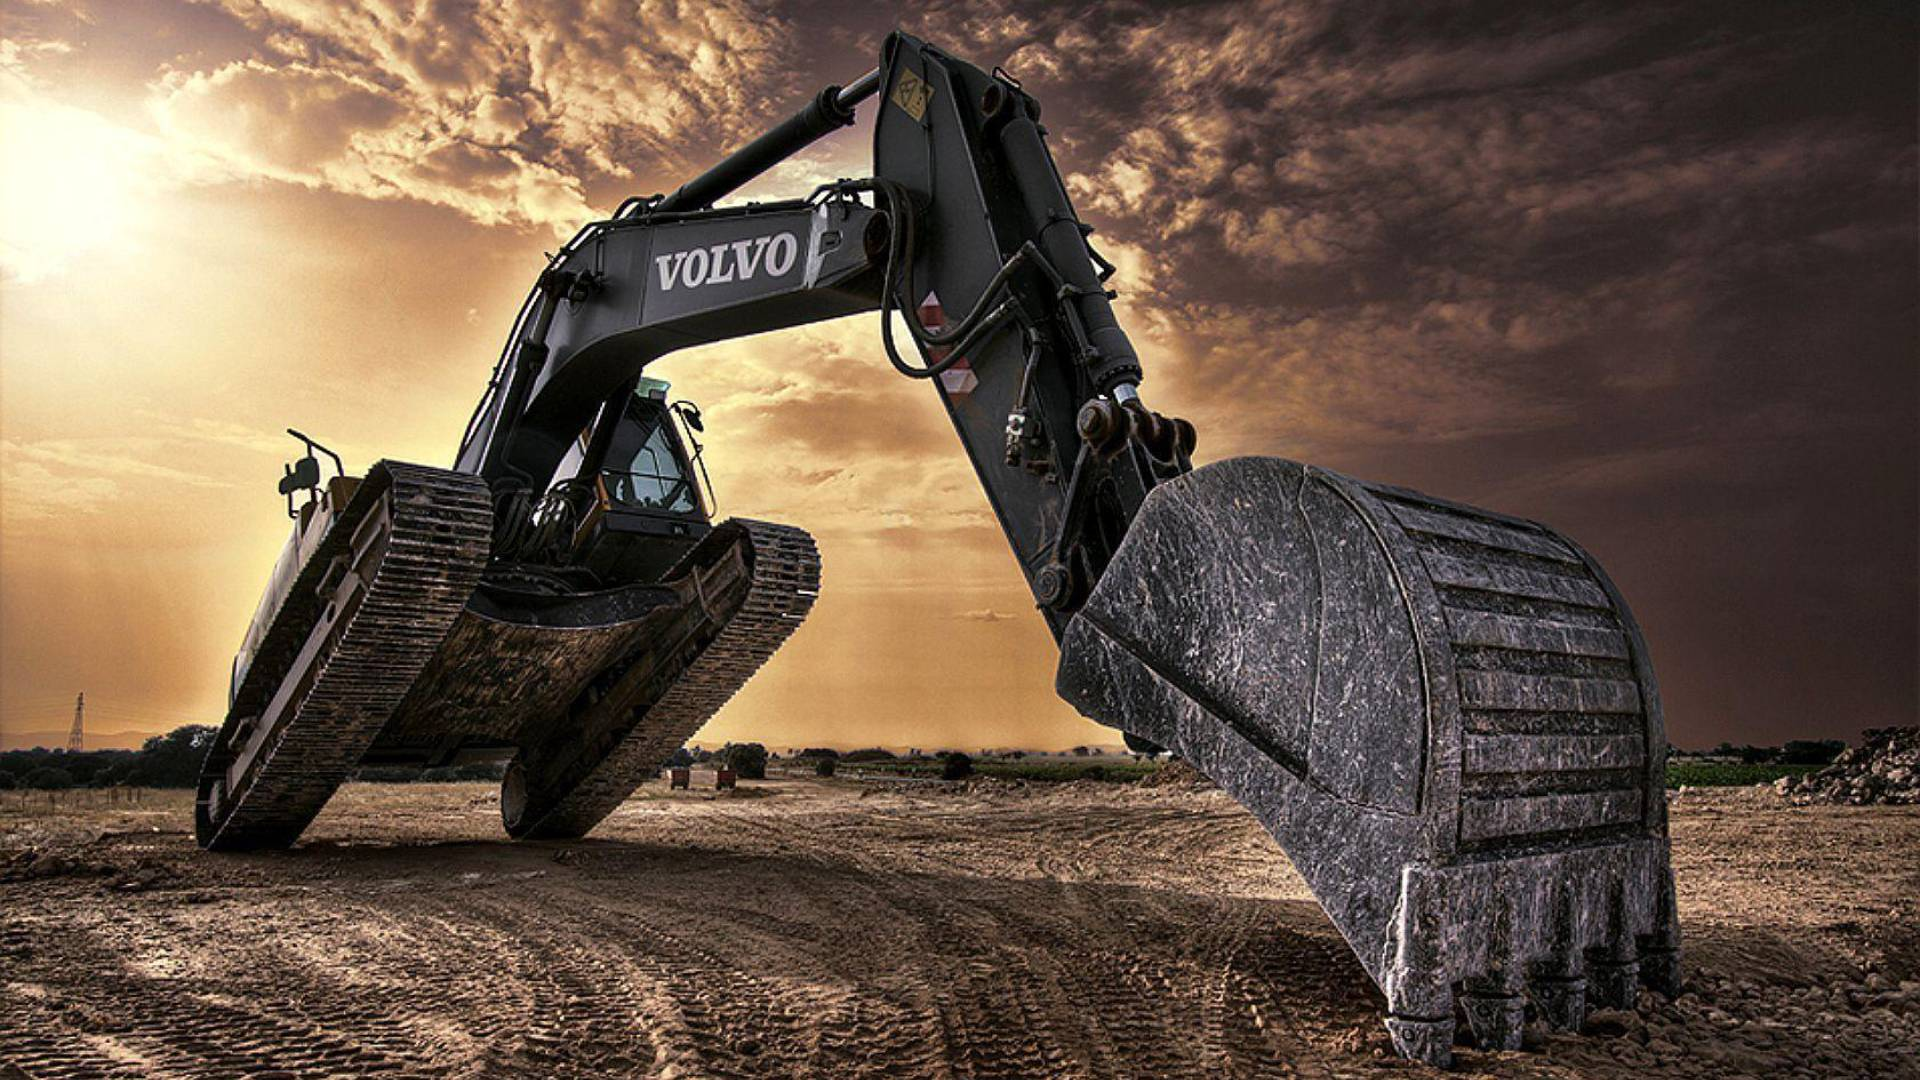
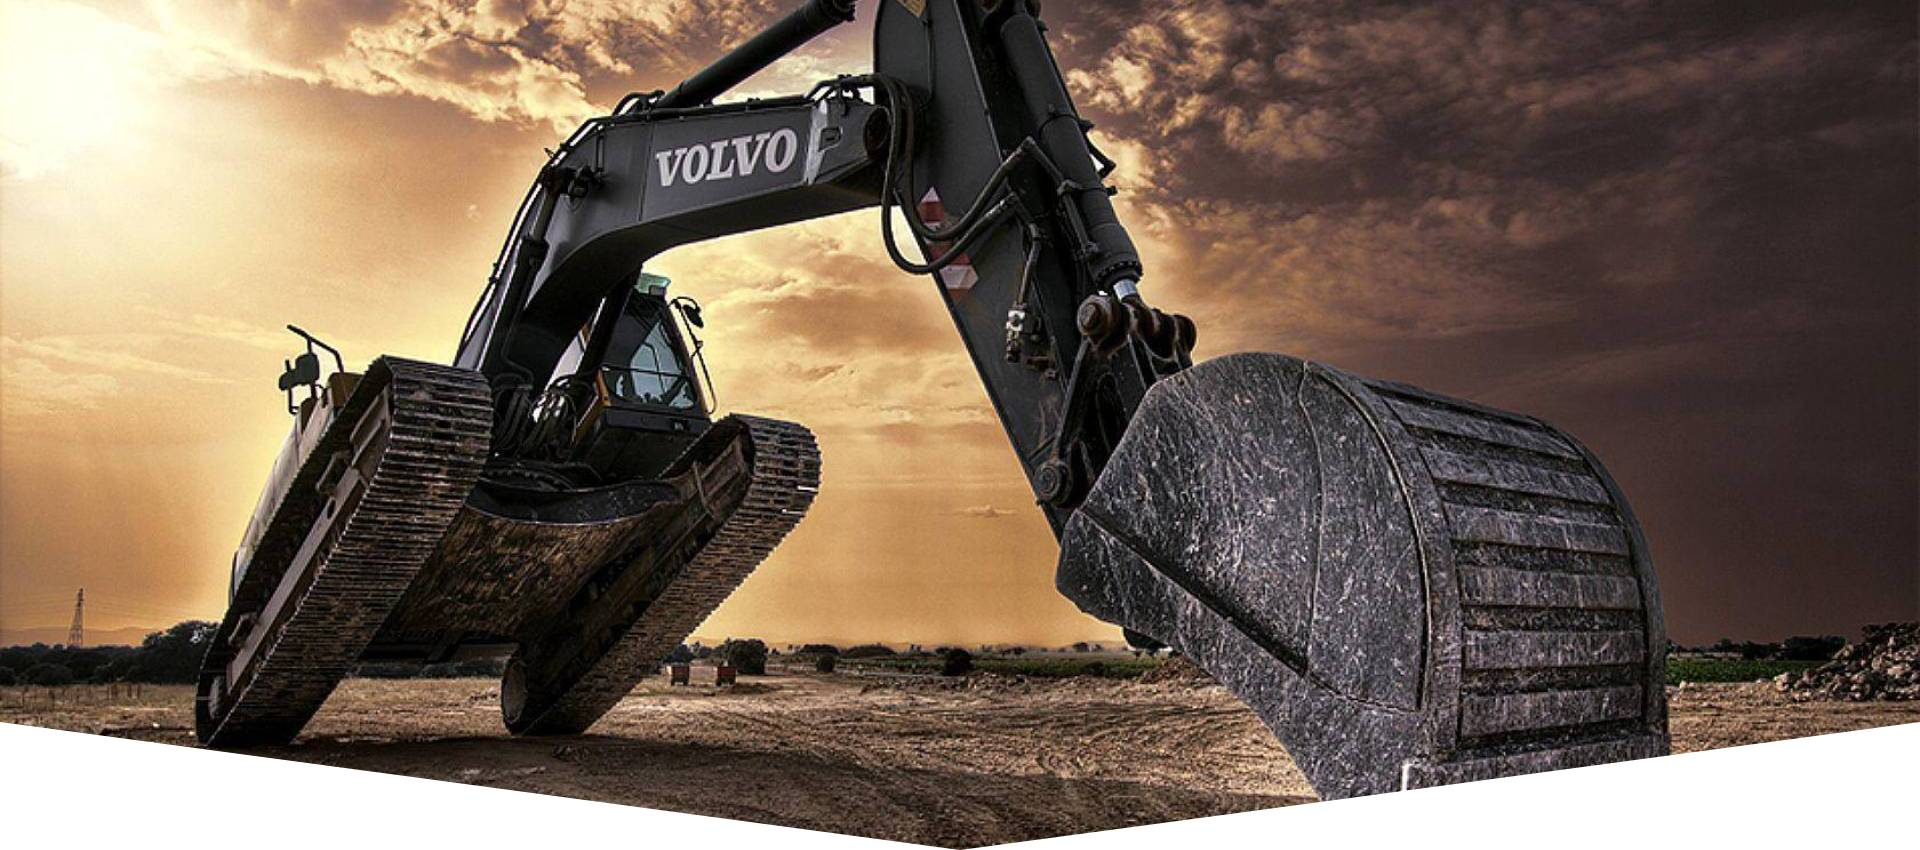
fix some

diff --git a/assets/css/style.css b/assets/css/style.css
@@ -512,8 +512,7 @@ ol {
 -----------------------*/
 
 .hero {
-	/* height: 850px; */
-	height: 920px;
+	height: 550px;
 	display: -webkit-box;
 	display: -ms-flexbox;
 	display: flex;
@@ -524,14 +523,19 @@ ol {
 
 .hero__text h5 {
 	color: #ffffff;
-	font-weight: 700;
+	font-weight: 400;
 	text-transform: uppercase;
 	letter-spacing: 2px;
 	margin-bottom: 20px;
 }
 
+.hero__text h5 p {
+	font-size: 14px;
+	line-height: 1.7;
+}
+
 .hero__text h2 {
-	font-size: 42px;
+	font-size: 35px;
 	font-weight: 800;
 	text-transform: uppercase;
 	font-style: italic;
@@ -3123,4 +3127,59 @@ ol {
 	top: 0;
 	content: "/";
 	color: #666666;
+}
+
+
+.hero-slider {
+	position: absolute;
+	left: 0;
+	top: 0;
+	width: 100%;
+	height: 100%;
+}
+
+.hero-slider.owl-carousel .owl-dots {
+	position: relative;
+	left: 0;
+	bottom: 80px;
+	max-width: 1140px;
+	margin: 0 auto;
+	text-align: center;
+}
+
+.hero-slider.owl-carousel .owl-dots button {
+	height: 10px;
+	width: 10px;
+	border-radius: 50%;
+	background: whitesmoke;
+	margin-right: 10px;
+}
+
+.hero-slider.owl-carousel .owl-dots button.active {
+	background: #c20000;
+}
+
+.hero-slider .owl-stage-outer,
+.hero-slider .owl-stage,
+.hero-slider .owl-item,
+.hero-slider .hs-item {
+	height: 100%;
+}
+
+.hero-slider .set-bg {
+	background-position: bottom center;
+}
+
+/*---------------------
+  Hero
+-----------------------*/
+
+.hero-section {
+	position: relative;
+	padding: 0 0 100px;
+}
+
+.hero-section .container {
+	position: relative;
+	z-index: 9;
 }

diff --git a/assets/js/main.js b/assets/js/main.js
@@ -146,7 +146,9 @@
         animateIn: 'fadeIn',
         smartSpeed: 1200,
         autoHeight: false,
-        autoplay: false
+        autoplay: true,
+        autoplayTimeout: 5000,
+        autoplayHoverPause: true
     });
 
     /*------------------

diff --git a/index.php b/index.php
@@ -102,7 +102,7 @@
     ?>
 
     <!-- Hero Section Begin -->
-    <section class="hero set-bg" data-setbg="assets/img/2.jpg">
+    <section class="hero hero-section" data-setbg="assets/img/2.jpg">
         <div class="container">
             <div class="row">
                 <div class="col-lg-12 text-center">
@@ -120,6 +120,11 @@
                     </div>
                 </div>
             </div>
+        </div>
+        <div class="hero-slider owl-carousel">
+            <div class="hs-item set-bg" data-setbg="assets/img/1.jpg"></div>
+            <div class="hs-item set-bg" data-setbg="assets/img/2.jpg"></div>
+            <div class="hs-item set-bg" data-setbg="assets/img/3.jpg"></div>
         </div>
     </section>
     <!-- Hero Section End -->
@@ -240,180 +245,95 @@
     <?php
     if ($_REQUEST['p']=="search") {?>
       <!-- Breadcrumb Section Begin -->
-      <section class="breadcrumb-section set-bg spad" data-setbg="assets/img/top-image-old.jpg">
-        <div style="width:100%;height:100%;background-color: rgba(0, 0, 0, 0.5);padding:100px 0;">
-          <div class="container">
+      <div class="breadcrumb-option">
+        <div class="container">
             <div class="row">
-              <div class="col-lg-12 text-center">
-                <div class="breadcrumb-text">
-                  <h3>Search For: <span><?php echo $_POST['search'] ? $_POST['search'] : '';?></span></h3>
-                  <div class="bt-option">
-                    <a href="#">Home</a>
-                    <a href="#">Search Result</a>
-                    <span><?php echo $_POST['search'] ? $_POST['search'] : '';?></span>
-                  </div>
+                <div class="col-lg-12">
+                    <div class="breadcrumb__links">
+                        <a href="./index.html"><i class="fa fa-home"></i> Home</a>
+                        <span>Search: <?php echo $_POST['search']; ?></span>
+                        <a href="products.php?cat=all&l=<?php echo $_REQUEST['l'] ?>&page=1" style="float:right;">View all MACHINES</a>
+                    </div>
                 </div>
-              </div>
             </div>
-          </div>
         </div>
-      </section>
+    </div>
       <!-- Breadcrumb Section End -->
 
       <!-- Categories Grid Section Begin -->
-      <section class="categories-list-section spad">
-          <div class="container">
-              <div class="row">
-                <div class="col-lg-8 p-0">
-                  <?php
-                    if($_POST['search']){
-                        $search = $_POST['search'];
-                        $str_query = " SELECT * FROM $tab_produse where nume_en like '%$search%' || stock like '%$search%' || make like '%$search%' || model like '%$search%' ";
-                        $result = mysql_query($str_query);
-                        if(mysql_num_rows($result) == 0){
-                            $strDisplay = "No Result";
-                        } else {
-                            $strDisplay = '';
-                            while($row = mysql_fetch_array($result)) {
-                                $query2 = mysql_query ( " SELECT * FROM $tab_fisiere where tip = '".$row['id']."' ");
-                                $row2 = mysql_fetch_array($query2);
-                                $strDisplay .= "
-                                  <div class='cl-item'>
-                                    <div class='cl-pic'>
-                                      <img src='upload/".$row2['numefisier']."' alt='TAYMIN LTD'>
-                                    </div>
-                                    <div class='cl-text'>
-                                        <div class='label'><span>".$row['model']."</span></div>
-                                        <h5><a href='product.php?cat=".$row['parinte']."&id=".$row['id']."&l=".$_REQUEST['l']."'>".$row['nume_en']."</a></h5>
-                                        <ul>
-                                          <li>by <span>".$row['make']."</span></li>
-                                          <li><i class='fa fa-money'></i>".$row['price']." &pound;</li>
-                                          <li><i class='fa fa-map-marker'></i>".$row['location']."</li>
-                                        </ul>
-                                    </div>
-                                  </div>
-                                ";
-                            }
-                        }
-                      }
-                      echo $strDisplay;
-                    ?>                  
-                  <div class="pagination-item" style="float:right;">
-                    <!-- <a href="#"><span>1</span></a>
-                    <a href="#"><span>2</span></a>
-                    <a href="#"><span>3</span></a> -->
-                    <a href="products.php?cat=all&l=en&page=1"><span>View All Machines</span></a>
-                  </div>  
-                </div> 
-                <div class="col-lg-4 col-md-7 p-0">
-                    <div class="sidebar-option">
-                        <div class="social-media">
-                            <div class="section-title">
-                                <h5>Social media</h5>
-                            </div>
-                            <ul>
-                                <li>
-                                    <div class="sm-icon"><i class="fa fa-facebook"></i></div>
-                                    <span>Facebook</span>
-                                    <div class="follow">1,2k Follow</div>
-                                </li>
-                                <li>
-                                    <div class="sm-icon"><i class="fa fa-twitter"></i></div>
-                                    <span>Twitter</span>
-                                    <div class="follow">1,2k Follow</div>
-                                </li>
-                                <li>
-                                    <div class="sm-icon"><i class="fa fa-youtube-play"></i></div>
-                                    <span>Youtube</span>
-                                    <div class="follow">2,3k Subs</div>
-                                </li>
-                                <li>
-                                    <div class="sm-icon"><i class="fa fa-instagram"></i></div>
-                                    <span>Instagram</span>
-                                    <div class="follow">2,6k Follow</div>
-                                </li>
-                            </ul>
-                        </div>
-                        <div class="best-of-post">
-                            <div class="section-title">
-                                <h5>Best of</h5>
-                            </div>
-                            <div class="bp-item">
-                                <div class="bp-loader">
-                                    <div class="loader-circle-wrap">
-                                        <div class="loader-circle">
-                                            <span class="circle-progress-1" data-cpid="id-1" data-cpvalue="95"
-                                                data-cpcolor="#c20000"></span>
-                                            <div class="review-point">9.5</div>
-                                        </div>
-                                    </div>
-                                </div>
-                                <div class="bp-text">
-                                    <h6><a href="#">This gaming laptop with a GTX 1660...</a></h6>
-                                    <ul>
-                                        <li><i class="fa fa-clock-o"></i> Aug 01, 2019</li>
-                                        <li><i class="fa fa-comment-o"></i> 20</li>
-                                    </ul>
-                                </div>
-                            </div>
-                            <div class="bp-item">
-                                <div class="bp-loader">
-                                    <div class="loader-circle-wrap">
-                                        <div class="loader-circle">
-                                            <span class="circle-progress-1" data-cpid="id-2" data-cpvalue="85"
-                                                data-cpcolor="#c20000"></span>
-                                            <div class="review-point">8.5</div>
-                                        </div>
-                                    </div>
-                                </div>
-                                <div class="bp-text">
-                                    <h6><a href="#">This gaming laptop with a GTX 1660...</a></h6>
-                                    <ul>
-                                        <li><i class="fa fa-clock-o"></i> Aug 01, 2019</li>
-                                        <li><i class="fa fa-comment-o"></i> 20</li>
-                                    </ul>
-                                </div>
-                            </div>
-                            <div class="bp-item">
-                                <div class="bp-loader">
-                                    <div class="loader-circle-wrap">
-                                        <div class="loader-circle">
-                                            <span class="circle-progress-1" data-cpid="id-3" data-cpvalue="80"
-                                                data-cpcolor="#c20000"></span>
-                                            <div class="review-point">8.0</div>
-                                        </div>
-                                    </div>
-                                </div>
-                                <div class="bp-text">
-                                    <h6><a href="#">This gaming laptop with a GTX 1660...</a></h6>
-                                    <ul>
-                                        <li><i class="fa fa-clock-o"></i> Aug 01, 2019</li>
-                                        <li><i class="fa fa-comment-o"></i> 20</li>
-                                    </ul>
-                                </div>
-                            </div>
-                            <div class="bp-item">
-                                <div class="bp-loader">
-                                    <div class="loader-circle-wrap">
-                                        <div class="loader-circle">
-                                            <span class="circle-progress-1" data-cpid="id-4" data-cpvalue="75"
-                                                data-cpcolor="#c20000"></span>
-                                            <div class="review-point">7.5</div>
-                                        </div>
-                                    </div>
-                                </div>
-                                <div class="bp-text">
-                                    <h6><a href="#">This gaming laptop with a GTX 1660...</a></h6>
-                                    <ul>
-                                        <li><i class="fa fa-clock-o"></i> Aug 01, 2019</li>
-                                        <li><i class="fa fa-comment-o"></i> 20</li>
-                                    </ul>
-                                </div>
-                            </div>
-                        </div>
+      <section class="courses spad">
+        <div class="container">
+            <div class="row">
+                <div class="col-lg-7 col-md-7 col-sm-7">
+                    <div class="section-title">
+                        <span>Search</span>
+                        <h2>Results</h2>
                     </div>
                 </div>
-              </div>
+                <div class="col-lg-5 col-md-5 col-sm-5">
+                    <div class="courses__all">
+                        <a href="products.php?cat=all&l=en&page=1" class="primary-btn second-bg">View all</a>
+                    </div>
+                </div>
+            </div>
+              <div class="row">
+              <?php
+                if($_POST['search']){
+                    $search = $_POST['search'];
+                    $str_query = " SELECT * FROM $tab_produse where nume_en like '%$search%' || stock like '%$search%' || make like '%$search%' || model like '%$search%' ";
+                    $result = mysql_query($str_query);
+                    if(mysql_num_rows($result) == 0){
+                        $strDisplay = "No Result";
+                    } else {
+                        $strDisplay = '';
+                        while($row = mysql_fetch_array($result)) {
+                            $query2 = mysql_query ( " SELECT * FROM $tab_fisiere where tip = '".$row['id']."' ");
+                            $row2 = mysql_fetch_array($query2);
+                            $strDisplay .= '
+                                <div class="col-lg-4 col-md-4 col-sm-6">
+                                <div class="course__item">
+                                    <img src="upload/'.$row2['numefisier'].'" alt="TAYMIN LTD">
+                                    <h5>'.$row['nume_en'].'</h5>
+                                    <h4>'.$row['model'].'</h4>
+                                    <p><i class="fa fa-money"></i> '.$row['price'].' &pound;</p>
+                                    <p><i class="fa fa-calendar-o"></i> '.$row['year'].'</p>
+                                    <a href="product.php?cat='.$row['parinte'].'&id='.$row['id'].'&l='.$_REQUEST['l'].'">View detail</a>
+                                </div>
+                            </div>
+                            ';
+                        }
+                    }
+                }
+                echo $strDisplay;
+                ?>   
+                </div>
+                <div class="pagination__option text-center" style="">
+                    <?php
+                        if($page == 1) {
+                        echo "<a href='#'>Previous</a>";
+                        } else {
+                        $j = $page - 1;
+                        echo '<a href="products.php?cat='.$_REQUEST['cat'].'&l='.$_REQUEST['l'].'&page='.$j.'">Previous</a>';
+                        }
+                        if($_REQUEST['cat'] <> 'all') {
+                        $page_query = mysql_query("SELECT COUNT(id) AS count FROM ".$tab_produse." WHERE parinte='".$_REQUEST['cat']."'");
+                        } else {
+                        $page_query = mysql_query("SELECT COUNT(id) AS count FROM ".$tab_produse);
+                        }
+                        $total_num = mysql_fetch_array($page_query);
+                        $total_page = floor($total_num['count'] / 10) + 1;
+                        for($i = 1; $i <= $total_page; $i++){
+                        echo '<a href="products.php?cat='.$_REQUEST['cat'].'&l='.$_REQUEST['l'].'&page='.$i.'" class="'.($i == $page ? "active" : "").'">'.$i.'</a>';
+                        }
+                        if($total_page == $page) {
+                        echo "<a href='#'>Next</a>";
+                        } else {
+                        $j = $page + 1;
+                        echo '<a href="products.php?cat='.$_REQUEST['cat'].'&l='.$_REQUEST['l'].'&page='.$j.'">Next</a>';
+                        }
+                    ?>
+                </div>
+            </div>
           </div>
       </section>
       <!-- Categories Grid Section End -->
